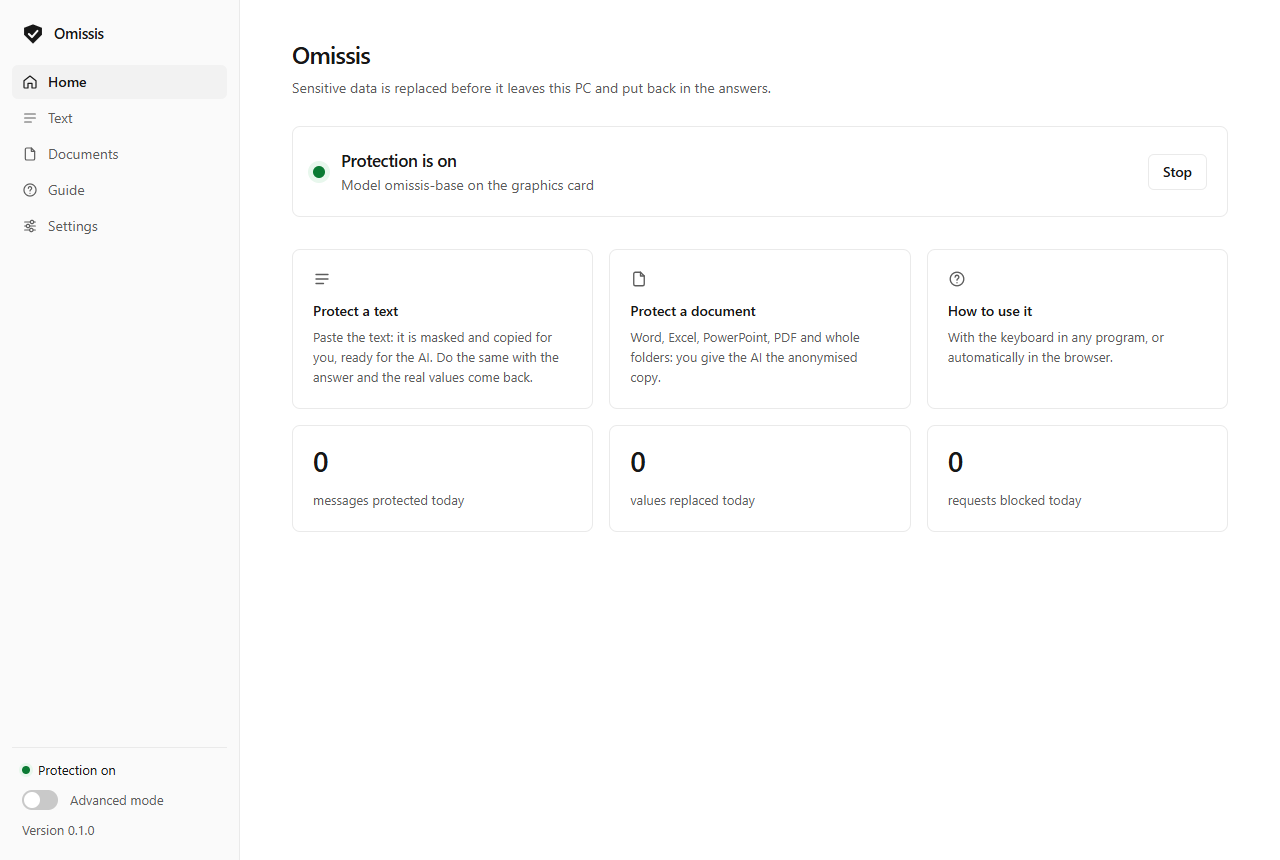
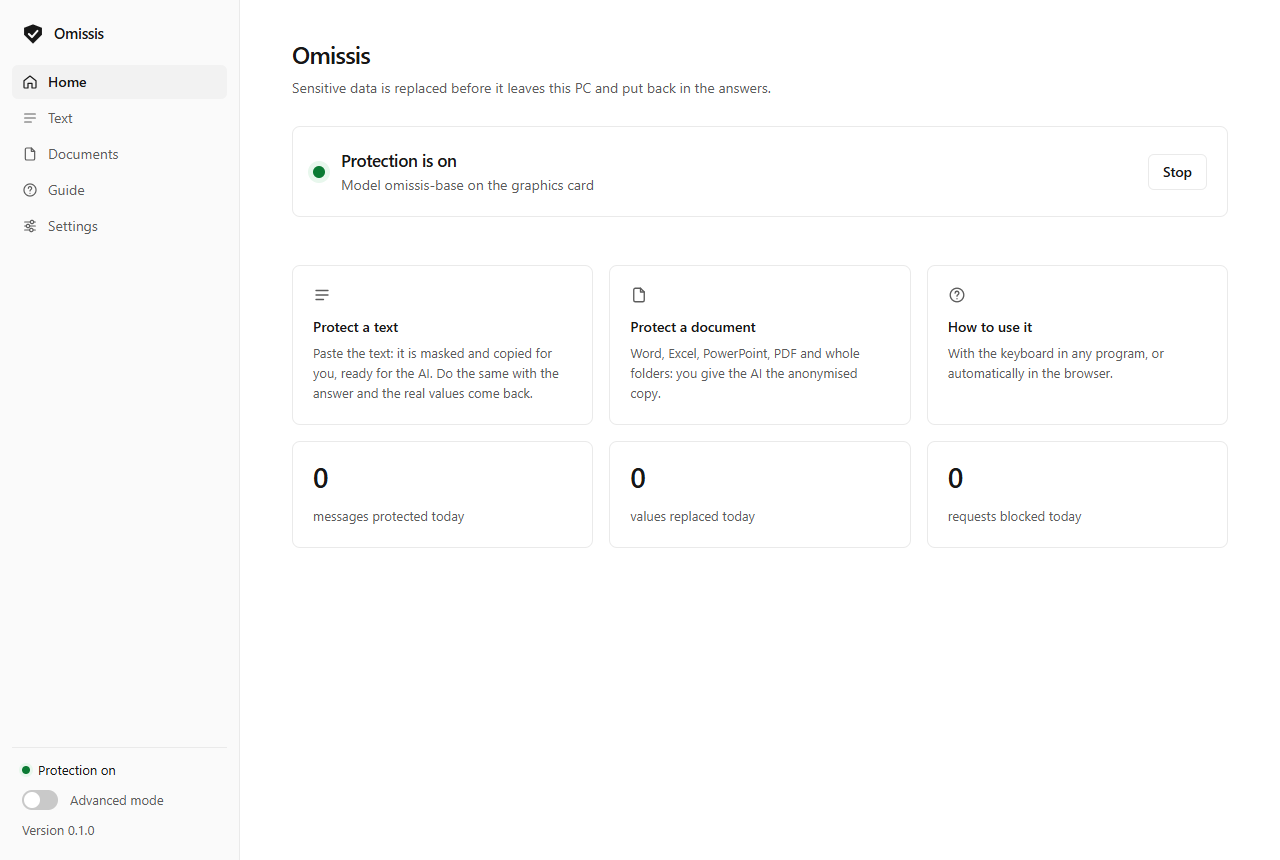
Settings: groups of data that can be switched off
- Everything is replaced by default and there is no profile to choose. In
  Settings > Recognition four groups can be turned off by whoever needs the
  AI to work on exactly that data: accounts and payments, companies, IT data,
  case files / utilities / vehicles. People, contacts, identity documents and
  secrets cannot be turned off.
- Turning a group off asks for confirmation and the home page shows a notice
  with a link back for as long as protection is reduced. It applies to every
  route, since they all go through the engine. Terms chosen by hand (the
  "always replace" list, manual corrections) stay replaced anyway.
- One more gateway check and two more panel checks.

diff --git a/app/panel/app.js b/app/panel/app.js
@@ -188,6 +188,7 @@ DRAW.start = el => {
       <span class="space"></span>
       <button class="button" id="restart" hidden>${esc(t("start.restart"))}</button><button class="button primary" id="main_switch">…</button>
     </div></div></section>
+    <div id="reduced"></div>
     <div id="update"></div>
     <div class="badges">${["text", "documents", "guide"].map(v => `<a class="badge" href="#/${v}">${icon(v)}<b>${esc(t(`start.badge.${v}`))}</b><span>${esc(t(`start.badge.${v}.below`))}</span></a>`).join("")}</div>
     <div class="grid">${["messages", "replacements", "blocked"].map(k => card(`<div class="number" id="n-${k}">0</div><div class="faded small">${esc(t(`start.today.${k}`))}</div>`)).join("")}
@@ -223,6 +224,12 @@ REFRESH.start = s => {
   b.disabled = phase === "startup";
   $("#restart").hidden = !s.restart_needed;
   updateNotice(s.update);
+  // chi ha spento un gruppo di dati lo deve vedere ogni volta che apre il programma, non solo nelle impostazioni
+  const off = (s.groups_off || []).map(g => t(`groups.${g}`)).join(", ");
+  if ($("#reduced").dataset.off !== off) {
+    $("#reduced").dataset.off = off;
+    $("#reduced").innerHTML = off ? `<div class="note warning"><span class="space">${esc(t("groups.reduced", {listing: off}))}</span><a class="button" href="#/settings/recognition">${esc(t("groups.reduced.change"))}</a></div>` : "";
+  }
   const st = s.stats;
   for (const k of ["messages", "replacements", "blocked"]) $(`#n-${k}`).textContent = num(st.today[k]);
   $("#n-entries").textContent = s.entries == null ? "–" : num(s.entries);
@@ -548,6 +555,11 @@ const recognitionSettings = test(async el => {
       ${line(t("recognition.where"), "", `<select id="device" aria-label="${esc(t("recognition.where"))}">${["auto", "cuda", "cpu"].map(v => `<option value="${v}">${esc(t(`recognition.where.${v}`))}</option>`).join("")}</select>`)}
       ${["box", "attachments", "restore", "block_files"].map(k => line(t(`recognition.${k}`), esc(t(`recognition.${k}.below`)), toggle(k, t(`recognition.${k}`)))).join("")}
     </section>
+    <section class="card" aria-labelledby="grpTitle">
+      <div class="inside"><h2 id="grpTitle">${esc(t("groups.title"))}</h2><p>${esc(t("groups.below"))}</p></div>
+      ${Object.entries(i.groups_always).map(([name, entries]) => line(t(`groups.${name}`), esc(entries.map(dataKind).join(", ")), label(t("groups.always"), "ok"))).join("")}
+      ${Object.entries(i.groups).map(([name, entries]) => line(t(`groups.${name}`), esc(entries.map(dataKind).join(", ")), toggle(`grp-${name}`, t(`groups.${name}`)))).join("")}
+    </section>
     ${groups.length ? `<section class="card" aria-labelledby="catTitle">
       <div class="inside"><h2 id="catTitle">${esc(t("categories.title"))}</h2><p>${esc(t("categories.below"))}</p></div>
       ${groups.map(([name, entries]) => line(t(`categories.${name}`), esc(t(`categories.${name}.below`, {listing: entries.map(dataKind).join(", ").toLowerCase()})), toggle(`cat-${name}`, t(`categories.${name}`)))).join("")}
@@ -559,6 +571,16 @@ const recognitionSettings = test(async el => {
     <div class="line"><button class="button primary" id="saveLists">${esc(t("lists.save"))}</button><span class="faded small">${esc(t("lists.note"))}</span></div>`;
   for (const k of ["model", "device"]) { $(`#${k}`).value = i[k]; $(`#${k}`).onchange = test(e => save({[k]: e.target.value})); }
   for (const k of ["box", "attachments", "restore", "block_files"]) { $(`#${k}`).checked = i[k] !== false && !!i[k]; $(`#${k}`).onchange = test(e => save({[k]: e.target.checked})); }
+  let off = (i.groups_off || []).slice();
+  for (const name of Object.keys(i.groups)) {
+    $(`#grp-${name}`).checked = !off.includes(name);
+    $(`#grp-${name}`).onchange = test(async e => {
+      // spegnere riduce la protezione: lo si fa solo dopo una conferma, e la pagina iniziale lo ricorda
+      if (!e.target.checked && !await confirm(t("groups.confirm.title", {name: t(`groups.${name}`)}), t("groups.confirm"), t("groups.confirm.yes"))) { e.target.checked = true; return; }
+      off = off.filter(g => g !== name).concat(e.target.checked ? [] : [name]);
+      await save({groups_off: off}, e.target.checked ? "groups.saved_on" : "groups.saved_off");
+    });
+  }
   let enabled = cat.enabled.slice();
   for (const [name, entries] of groups) {
     $(`#cat-${name}`).checked = entries.every(v => enabled.includes(v));

diff --git a/app/e2e_panel.py b/app/e2e_panel.py
@@ -219,6 +219,36 @@ def main():
                 except Exception as ex:   # noqa: BLE001
                     mark(f"{language}: terminale, righe per Codex in abbonamento e gateway proprio salvato, rifiutato se non valido, tolto", False, str(ex)[:160])
 
+                # --- gruppi di dati: spegnerne uno chiede conferma, la pagina iniziale lo ricorda, riaccenderlo toglie l'avviso
+                try:
+                    off = lambda: json.loads((paths.DATA / "settings.json").read_text(encoding="utf-8")).get("groups_off")   # noqa: E731
+                    pag.goto(f"{PANEL}/#/settings/recognition")
+                    pag.wait_for_selector("#grp-it", state="attached", timeout=15000)
+                    locked = pag.evaluate("!document.getElementById('grp-people') && !document.getElementById('grp-secrets') && document.getElementById('grp-it').checked")
+                    pag.evaluate("document.getElementById('grp-it').click()")
+                    pag.wait_for_selector("#confirm[open]", timeout=5000)
+                    pag.click("#confirmNo")                            # ci ripensa: non cambia nulla
+                    pag.wait_for_timeout(500)
+                    kept = pag.evaluate("document.getElementById('grp-it').checked") and not off()
+                    pag.evaluate("document.getElementById('grp-it').click()")
+                    pag.wait_for_selector("#confirm[open]", timeout=5000)
+                    pag.click("#confirmYes")
+                    stored = wait_until(lambda: off() == ["it"])
+                    pag.goto(f"{PANEL}/#/start")
+                    warned = wait(pag, "() => !!document.querySelector('#reduced .note.warning')", timeout=15)
+                    pag.goto(f"{PANEL}/#/settings/recognition")
+                    pag.wait_for_selector("#grp-it", state="attached", timeout=15000)
+                    wait(pag, "() => document.getElementById('grp-it').checked === false", timeout=10)
+                    pag.evaluate("document.getElementById('grp-it').click()")   # riaccendere non chiede nulla
+                    back = wait_until(lambda: off() == [])
+                    pag.goto(f"{PANEL}/#/start")
+                    pag.wait_for_selector("#main_switch")
+                    cleared = wait(pag, "() => !document.querySelector('#reduced .note')", timeout=15)
+                    mark(f"{language}: gruppi di dati, spegnere chiede conferma e la pagina iniziale lo ricorda; persone e segreti non si spengono",
+                         locked and kept and stored and warned and back and cleared, f"fissi {locked} · ripensamento {kept} · spento {stored} · avviso {warned} · riacceso {back} · tolto {cleared}")
+                except Exception as ex:   # noqa: BLE001
+                    mark(f"{language}: gruppi di dati, spegnere chiede conferma e la pagina iniziale lo ricorda; persone e segreti non si spengono", False, str(ex)[:160])
+
                 # --- testo: incolla -> mascherato e copiato; incolla di nuovo -> valori veri
                 pag.goto(f"{PANEL}/#/text")
                 pag.wait_for_selector("#paste")

diff --git a/app/settings.py b/app/settings.py
@@ -29,6 +29,7 @@ DEFAULTS = {
     "categories": [],             # categorie in piu' da sostituire (DATA, PROFESSIONE, SALUTE...): di serie restano in chiaro
     "mcp_folders": [],            # cartelle in piu' che il server MCP puo' usare, oltre a Documenti, Desktop e Download
     "gateway_upstreams": {},      # chi ha gia' un proprio gateway: nome usato nell'indirizzo (anthropic, openai...) -> dove inoltrare
+    "groups_off": [],             # gruppi di dati che chi usa il PC ha scelto di NON sostituire (vedi GROUPS): di serie nessuno
 }
 _cache = {"mtime": None, "data": None}
 
@@ -44,6 +45,22 @@ def read():
         except ValueError:
             _cache.update(mtime=m, data=dict(DEFAULTS))
     return _cache["data"]
+
+
+# I gruppi di dati che si possono spegnere (Impostazioni > Riconoscimento > Cosa sostituire). Serve a chi lavora proprio su
+# quei dati: un tecnico che fa ragionare l'AI su una rete, uno studio che vuole leggere i numeri di pratica nelle risposte.
+GROUPS = {"payments": ["IBAN", "CARTA", "CARTA_SEC", "PIVA"],
+          "organizations": ["ORG"],
+          "it": ["IP", "MAC", "HOSTNAME", "DOMINIO", "URL", "ACCOUNT", "ID_CLOUD", "ID_DISPOSITIVO"],
+          "records": ["ID_PRATICA", "CATASTO", "ID_UTENZA", "TARGA", "ID_VEICOLO"]}
+# Questi non si spengono: sono il motivo per cui il programma esiste.
+ALWAYS_ON = {"people": ["PERSONA", "EMAIL", "TELEFONO", "INDIRIZZO", "CAP", "CITTA", "DATA_NASCITA", "CF", "DOC_ID"], "secrets": ["SEGRETO"]}
+
+
+def labels_off(cfg=None):
+    """Le etichette che, per scelta di chi usa il PC, non vanno sostituite."""
+    chosen = (cfg or read()).get("groups_off") or []
+    return {label for g in chosen if g in GROUPS for label in GROUPS[g]}
 
 
 def address_ok(text):
@@ -66,6 +83,7 @@ def write(data):
     own = clean["gateway_upstreams"] if isinstance(clean["gateway_upstreams"], dict) else {}
     clean["gateway_upstreams"] = {str(k): str(v).strip().rstrip("/") for k, v in own.items()
                                   if re.fullmatch(r"[a-z0-9-]{1,30}", str(k)) and str(k) != "codex" and address_ok(v)}
+    clean["groups_off"] = sorted({str(g) for g in (clean["groups_off"] if isinstance(clean["groups_off"], list) else []) if str(g) in GROUPS})
     extra = clean["mcp_folders"] if isinstance(clean["mcp_folders"], list) else []
     clean["mcp_folders"] = list(dict.fromkeys(str(x).strip().strip('"') for x in extra if str(x).strip()))[:20]
     if clean["scan"] not in ("weekly", "daily", "never"):

diff --git a/app/e2e_gateway.py b/app/e2e_gateway.py
@@ -314,6 +314,18 @@ def main():
           and kept == {"anthropic": "https://gateway.azienda.example/llm", "openai": "https://gateway.azienda.example/api/v1"}, f"{path_a} · {path_o} · {sorted(kept)}")
     status, raw = call("/openai/v1/responses", codex, {"Authorization": subscription})
     mark("l'accesso in abbonamento non va mai al gateway proprio: sempre a ChatGPT", status == 200 and SEEN["path"] == "/backend-api/codex/responses")
+    # --- un gruppo di dati spento a mano (Impostazioni > Cosa sostituire): quei dati partono in chiaro, tutti gli altri no
+    technical = TEXT + " Il server SRV-ALPI-04 (indirizzo 10.20.30.40) non risponde al ping."
+    ask = lambda: call("/anthropic/v1/messages", {"model": "x", "max_tokens": 100, "messages": [{"role": "user", "content": technical}]}, {"x-api-key": "chiave-di-prova"})   # noqa: E731
+    ask()
+    with_all = json.dumps(SEEN["body"], ensure_ascii=False)
+    settings.write({**settings.read(), "groups_off": ["it", "records", "gruppo-inventato", "people"]})
+    chosen = settings.read()["groups_off"]
+    status, raw = ask()
+    reduced = json.dumps(SEEN["body"], ensure_ascii=False)
+    mark("gruppo «dati informatici» spento: indirizzi e nomi di server partono, persone e contatti restano sostituiti", status == 200
+          and "10.20.30.40" not in with_all and "10.20.30.40" in reduced and "SRV-ALPI-04" in reduced and reveal(SEEN["body"]) == 0 and "[PERSONA_" in reduced
+          and chosen == ["it", "records"], f"spenti {chosen}")
     if before is None:
         settings.FILE.unlink()
     else:

diff --git a/app/panel.py b/app/panel.py
@@ -204,7 +204,8 @@ class Supervisor:
                 "downloading": weights.status(settings.read()["model"]) if self.phase in ("model", "error") else None,
                 "update": updates.status(),
                 "model": Path(info["model"]).name if info.get("model") else None, "device": info.get("device"),
-                "threshold": info.get("threshold"), "entries": info.get("entries"), "port": settings.read()["port"]}
+                "threshold": info.get("threshold"), "entries": info.get("entries"), "port": settings.read()["port"],
+                "groups_off": list(settings.read().get("groups_off") or [])}   # gruppi di dati spenti a mano: la pagina iniziale lo dice
 
 
 SUP = None
@@ -509,7 +510,7 @@ class Handler(BaseHTTPRequestHandler):
             elif u.path == "/api/services":
                 self._respond(200, services())
             elif u.path == "/api/settings":
-                self._respond(200, {**settings.read(), "certificate": certificate()})
+                self._respond(200, {**settings.read(), "certificate": certificate(), "groups": settings.GROUPS, "groups_always": settings.ALWAYS_ON})
             elif u.path == "/api/lists":
                 self._respond(200, read_lists())
             elif u.path == "/api/app":

diff --git a/app/engine.py b/app/engine.py
@@ -317,6 +317,9 @@ class Engine:
         """escludi: etichette da NON sostituire in questa chiamata (es. quelle tecniche nel contesto di un agente).
         mai: termini da non sostituire in questa chiamata (es. i nomi degli strumenti dichiarati da un agente).
         anche: {termine: etichetta} da sostituire comunque, ovunque compaiano (le correzioni fatte a mano nel pannello)."""
+        # i gruppi di dati che chi usa il PC ha spento nelle impostazioni valgono per ogni strada (browser, app, terminale,
+        # documenti, MCP): tutte passano da qui. Cio' che e' stato scelto a mano («anche», liste personali) resta comunque.
+        exclude = set(exclude) | settings.labels_off()
         never = {str(x).strip(EDGES).casefold() for x in never}   # stessa pulizia dei bordi usata sotto: «Nevatek S.r.l.» finisce con un punto
         also = {str(v).strip(): (str(l) if RX_LABEL.fullmatch(str(l)) else "ELENCO") for v, l in (also or {}).items() if str(v).strip()}
         t0 = time.perf_counter()

diff --git a/app/README.it.md b/app/README.it.md
@@ -193,6 +193,29 @@ vengono saltati, non copiati); da PDF e immagini esce un file di testo; nei
 fogli Excel ogni cella è valutata da sola, senza l'intestazione della colonna, quindi il modello
 può sbagliare di più; i nomi dei file e dei fogli restano come sono.
 
+## Cosa sostituire: i gruppi che si possono spegnere
+
+Di serie viene sostituito tutto ciò che il modello considera un identificativo, e per quasi tutti è
+la scelta giusta: non c'è nessun profilo da scegliere. Chi però fa lavorare l'AI proprio su certi
+dati può spegnerne il gruppo in Impostazioni → Riconoscimento → Cosa sostituire:
+
+| Gruppo | Che cosa contiene | Si può spegnere |
+|---|---|---|
+| Persone, contatti e documenti d'identità | nomi, e-mail, telefoni, indirizzi, CAP, città, data di nascita, codice fiscale, documenti | no |
+| Password, chiavi e altri segreti | password, token, chiavi, stringhe di connessione | no |
+| Conti e pagamenti | IBAN, carte, partita IVA | sì |
+| Aziende e organizzazioni | nomi di aziende, studi, clienti | sì |
+| Dati informatici | indirizzi IP e MAC, nomi di PC e server, domini, indirizzi web, account, identificativi cloud e di dispositivo | sì |
+| Pratiche, utenze e veicoli | polizze, protocolli, matricole, dati catastali, codici di fornitura, targhe, telai | sì |
+
+Esempi: un tecnico che chiede all'AI di ragionare su una rete spegne i dati informatici e tiene
+tutto il resto; uno studio che vuole leggere i numeri di pratica nelle risposte spegne l'ultimo
+gruppo. Spegnere **riduce la protezione**: quei dati partono in chiaro da ogni strada (browser, app,
+terminale, documenti, MCP). Per questo il pannello chiede conferma e la pagina iniziale lo ricorda
+ogni volta, con il collegamento per cambiare idea. Ciò che si è scelto a mano resta sostituito
+comunque: i termini della lista «sostituisci sempre» e le correzioni fatte nella sezione Testo
+vincono sui gruppi spenti. L'impostazione è `groups_off` in `settings.json`; l'effetto è immediato.
+
 ## Categorie in più
 
 Dalla versione 2 il modello riconosce, oltre agli identificativi diretti (nomi, contatti, codici,
@@ -363,7 +386,7 @@ Su questo PC Codex da terminale e OpenCode usano l'accesso con l'account ChatGPT
 sono coperti**. Codex 0.164 ha un'impostazione per cambiare indirizzo (`openai_base_url`) e comprime
 le richieste con zstd: la strada c'è, ma va provata dal vivo con l'account prima di dichiararla.
 
-Verificato: `e2e_gateway.py` (31 controlli contro un servizio finto) e **due prove dal vivo con
+Verificato: `e2e_gateway.py` (32 controlli contro un servizio finto) e **due prove dal vivo con
 Claude Code** e accesso in abbonamento, con dati inventati. Nella prima un messaggio semplice: 0
 valori in chiaro verso il servizio, risposta tornata con i valori veri. Nella seconda un'azione:
 Claude Code ha scritto un file, sul disco ci sono i valori veri e il servizio ha visto solo
@@ -588,7 +611,7 @@ non va copiata né condivisa.
 | Gemini | **sperimentale**: formato scritto a memoria, provato solo su un'imitazione |
 | Copilot, Perplexity, Kimi, Grok, Le Chat e gli altri "generici" | riconoscimento dei campi dal nome: **da verificare uno per uno** |
 | Tutti gli altri del catalogo | il proxy non li legge: si possono solo registrare o bloccare |
-| Gateway per gli strumenti da terminale | servizio finto (`e2e_gateway.py`, 31 controlli; Codex in abbonamento e gateway proprio solo qui) e **Claude Code dal vivo** con un messaggio di dati inventati (rifatto il 14/11/2026 dopo la rinomina del codice) |
+| Gateway per gli strumenti da terminale | servizio finto (`e2e_gateway.py`, 32 controlli; Codex in abbonamento e gateway proprio solo qui) e **Claude Code dal vivo** con un messaggio di dati inventati (rifatto il 14/11/2026 dopo la rinomina del codice) |
 | Server MCP (documenti dentro le app) | `e2e_mcp.py` (27 controlli) e **Claude Code dal vivo** con un verbale inventato; non ancora dentro Claude Desktop e le altre app |
 | Connettore per le app desktop | app di prova (`e2e_connector.py`, 37 controlli) e **app vera di ChatGPT**: un messaggio di dati inventati è arrivato al servizio con i soli segnaposto (barriera sulla casella di scrittura) |
 | Estensione del browser | stessi formati, provati in un browser vero contro il servizio finto (`e2e_extension.py`, 33 controlli); pagine vere solo aperte, senza accedere |
@@ -761,7 +784,7 @@ inventate. Nessuno dei due ha bisogno di qualcosa acceso.
 scorciatoie registrate, cambiate e dichiarate occupate; il testo selezionato sostituito sul posto
 in una finestrella che apre lui (i tasti partono solo se quella finestra è in primo piano,
 altrimenti il controllo viene saltato e detto); la finestra di Windows per scegliere la cartella.
-`e2e_panel.py` (52 controlli, serve la protezione attiva e una copia di prova: `OMISSIS_DATA`, e
+`e2e_panel.py` (54 controlli, serve la protezione attiva e una copia di prova: `OMISSIS_DATA`, e
 `OMISSIS_LISTS` per provare anche gli elenchi) apre ogni sezione del pannello in italiano e in
 inglese: nessun errore, nessuna frase senza traduzione, nomi di pulsanti e campi, uso dalla
 tastiera, il giro completo di un testo e di un documento con dati inventati, le correzioni a mano,
